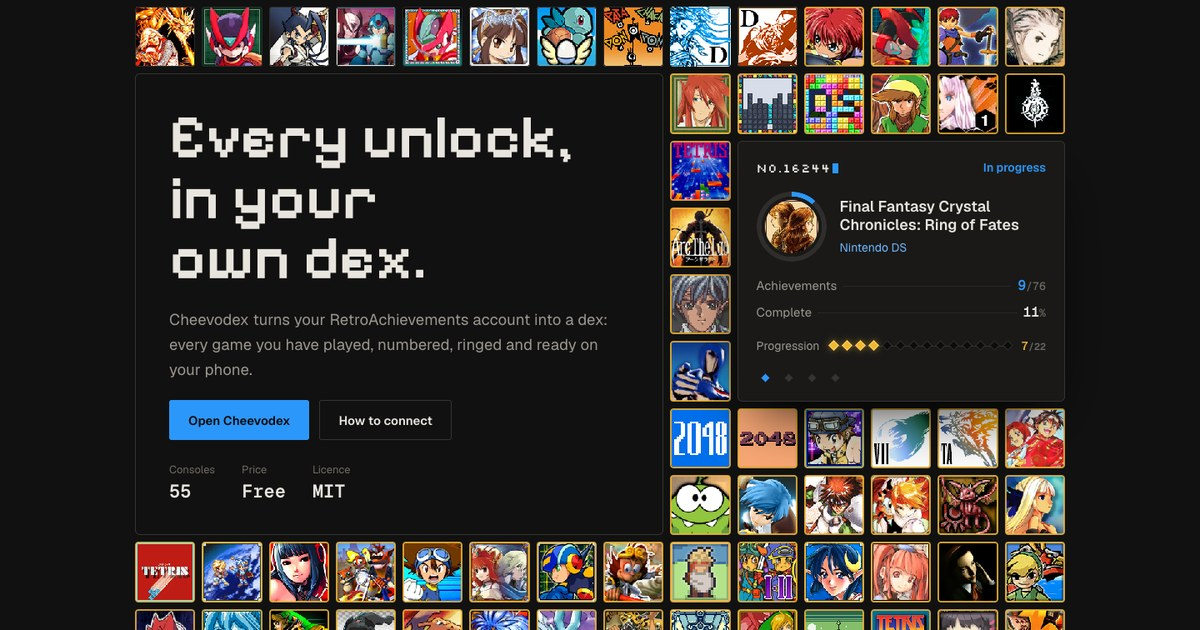
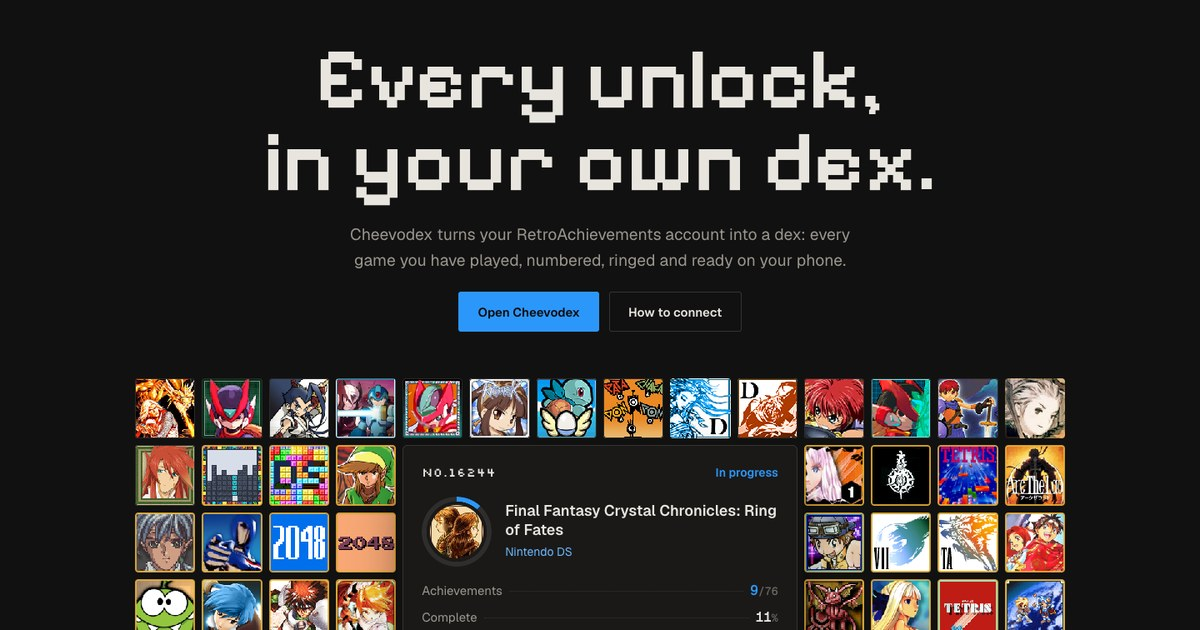
feat: hero as the collection with one entry opened
The headline runs across the top; below it the dex grid spans the page
with one entry opened in its middle, six cells by four. No text-left,
picture-right split.

Claude-Session: https://claude.ai/code/session_01EeEDH1FGz51LdHyJv8MWQV

diff --git a/src/styles/home.css b/src/styles/home.css
@@ -44,42 +44,43 @@
 
 /* Digits are set in Geist Mono: in the pixel face a 5 reads as an S */
 
-/* ── Hero: the page is a dex ── */
-.hero { padding-block: clamp(28px, 4vw, 48px) clamp(56px, 7vw, 96px); }
-.dexgrid { --cols: 14; --gap: 8px; display: grid; grid-template-columns: repeat(var(--cols), minmax(0, 1fr)); grid-auto-rows: auto; gap: var(--gap); grid-auto-flow: dense; }
+/* ── Hero: the headline across the top, the collection below with one entry opened in it ── */
+.hero { padding-block: clamp(48px, 6vw, 88px) clamp(56px, 7vw, 96px); }
+.hero-head { display: flex; flex-direction: column; align-items: center; gap: 22px; text-align: center; margin-bottom: clamp(36px, 4vw, 56px); animation: settle 800ms var(--ease) both; }
+.hero h1 { font-size: clamp(44px, 7.4vw, 104px); line-height: 0.95; max-width: 16ch; }
+.lede { font-size: clamp(17px, 1.35vw, 20px); color: var(--ink-2); max-width: 48ch; }
+.cta { display: flex; flex-wrap: wrap; gap: 12px; justify-content: center; }
+.split-copy .cta, .setup-path .cta { justify-content: flex-start; }
+
+.dexgrid { --cols: 14; --gap: 8px; display: grid; grid-template-columns: repeat(var(--cols), minmax(0, 1fr)); gap: var(--gap); grid-auto-flow: dense; }
 .cell { position: relative; aspect-ratio: 1; border-radius: 4px; overflow: hidden; background: var(--box); outline: 1px solid var(--line); outline-offset: -1px; }
 .cell img { width: 100%; height: 100%; object-fit: cover; image-rendering: pixelated; transition: filter 500ms var(--ease), opacity 500ms var(--ease); }
 .cell.dim img { filter: grayscale(1) brightness(0.45); opacity: 0.6; }
 .cell.reg::after { content: ''; position: absolute; inset: 0; border-radius: 4px; box-shadow: inset 0 0 0 2px var(--gold); opacity: 0; animation: register 900ms var(--ease) both; }
 @keyframes register { 15% { opacity: 1; } to { opacity: 0; } }
-.cell-copy, .cell-entry { position: relative; z-index: 1; }
-.cell-copy { grid-column: 1 / 9; grid-row: 2 / 9; display: flex; flex-direction: column; justify-content: center; gap: 22px; padding: 36px 40px;
-             background: var(--page); border: 1px solid var(--line-2); border-radius: 6px; }
-.cell-entry { grid-column: 10 / 15; grid-row: 3 / 7; display: flex; }
+/* The opened entry: six cells wide, four tall, in the middle of the collection */
+.cell-entry { position: relative; z-index: 1; grid-column: 5 / 11; grid-row: 2 / 6; display: flex; }
 .cell-entry > * { width: 100%; }
-.cell-entry .hdex { height: 100%; justify-content: space-between; }
-.hero h1 { font-size: clamp(44px, 5.4vw, 74px); line-height: 0.98; max-width: 11ch; }
-.lede { font-size: clamp(17px, 1.3vw, 19px); color: var(--ink-2); max-width: 44ch; }
-.cta { display: flex; flex-wrap: wrap; gap: 12px; }
-.hero-facts { display: flex; gap: 32px; margin: 4px 0 0; }
+.cell-entry .hdex { height: 100%; justify-content: space-between; box-shadow: 0 0 0 6px var(--page), 0 30px 70px -20px rgb(0 0 0 / 0.9); }
+/* Whole rows only: 6 rows of 14 less the entry's 24 cells; 8 of 8 less 24; 8 of 5 less 25 */
+.dexgrid > .cell:nth-of-type(n+61) { display: none; }
+.hero-foot { display: flex; flex-wrap: wrap; justify-content: space-between; align-items: end; gap: 16px 32px; margin-top: 20px; }
+.dexgrid-note { color: var(--ink-3); font-size: 14px; }
+.hero-facts { display: flex; gap: 32px; margin: 0; }
 .hero-facts dt { color: var(--ink-3); font-size: 13px; }
 .hero-facts dd { margin: 2px 0 0; font: 600 22px/1.1 var(--mono); color: var(--ink); }
-.dexgrid-note { margin-top: 16px; color: var(--ink-3); font-size: 14px; }
-/* Only as many icons as fill whole rows: 11 rows of 14 on desktop, 17 of 8 on tablets, 16 of 5 on phones */
-.dexgrid > .cell:nth-of-type(n+79) { display: none; }
-@media (max-width: 1099px) { .dexgrid > .cell:nth-of-type(n+73) { display: none; } .dexgrid > .cell:nth-of-type(-n+72) { display: block; } }
-@media (max-width: 699px) { .dexgrid > .cell:nth-of-type(n+11) { display: none; } }
 @media (max-width: 1099px) {
     .dexgrid { --cols: 8; }
-    .cell-copy { grid-column: 1 / 9; grid-row: 2 / 7; }
-    .cell-entry { grid-column: 2 / 8; grid-row: 8 / 12; }
-    .cell-entry .hdex { height: auto; }
+    .cell-entry { grid-column: 2 / 8; grid-row: 2 / 6; }
+    .dexgrid > .cell:nth-of-type(n+41) { display: none; }
+    .dexgrid > .cell:nth-of-type(-n+40) { display: block; }
 }
 @media (max-width: 699px) {
     .dexgrid { --cols: 5; --gap: 6px; }
-    .cell-copy { grid-column: 1 / 6; grid-row: 2 / 10; padding: 24px 20px; }
-    .cell-entry { grid-column: 1 / 6; grid-row: 11 / 17; }
-    .hero-facts { gap: 22px; }
+    .cell-entry { grid-column: 1 / 6; grid-row: 2 / 7; }
+    .cell-entry .hdex { box-shadow: 0 0 0 4px var(--page); }
+    .dexgrid > .cell:nth-of-type(n+16) { display: none; }
+    .dexgrid > .cell:nth-of-type(-n+15) { display: block; }
 }
 
 /* The dex entry writing itself */
